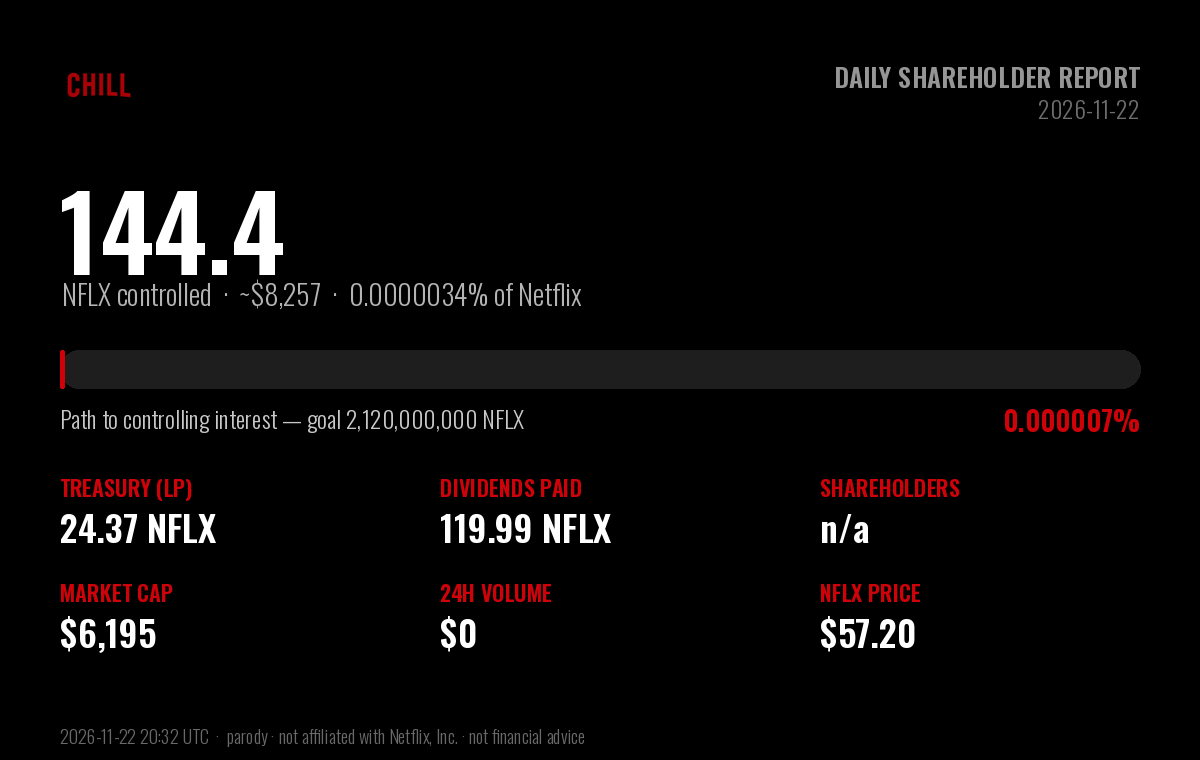
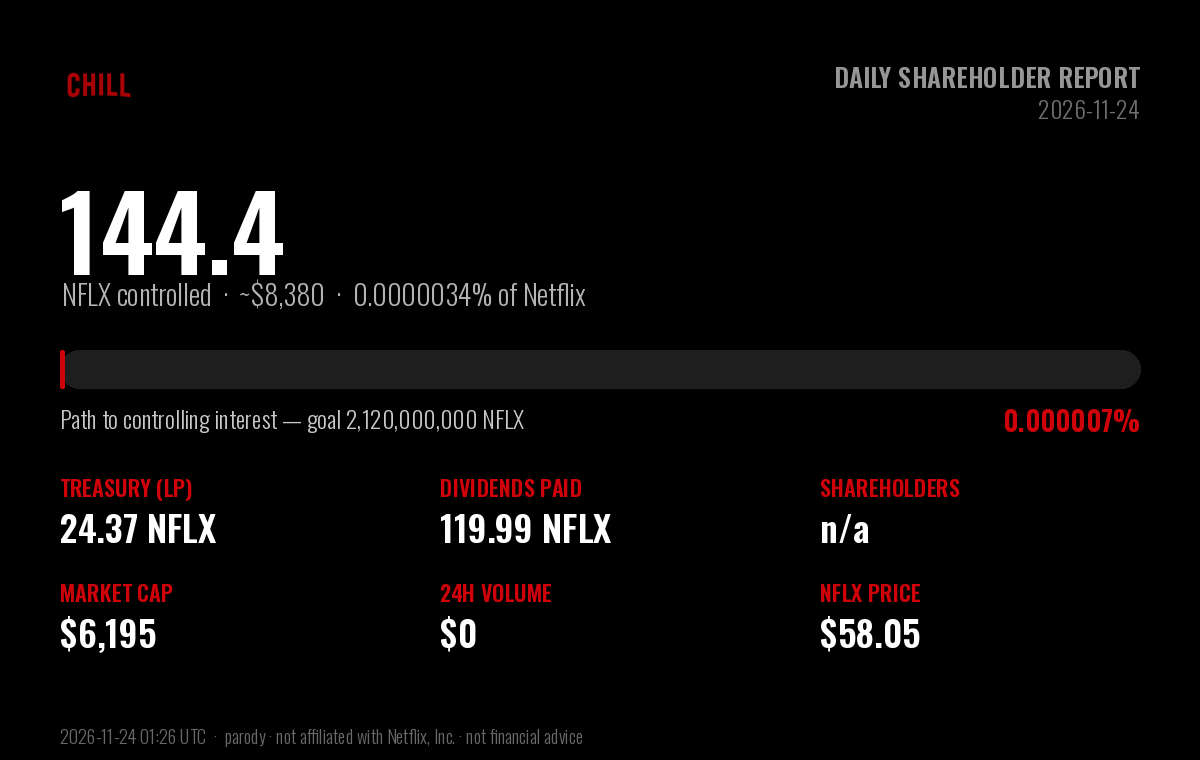
chore: daily $CHILL shareholder report (2026-11-24)

diff --git a/daily-holder-report/README.md b/daily-holder-report/README.md
@@ -1,6 +1,6 @@
 # $CHILL — Daily Shareholder Report
 
-### Netflix and Chill · Report to Shareholders · 2026-11-22
+### Netflix and Chill · Report to Shareholders · 2026-11-24
 
 > **Corporate objective:** acquire a controlling interest in Netflix (NFLX).
 > Netflix has **4,220,000,000** shares outstanding; a majority
@@ -13,7 +13,7 @@
 
 | Metric | Value |
 |---|---|
-| **NFLX under $CHILL control** | **144.36 NFLX** (~$8,257) |
+| **NFLX under $CHILL control** | **144.36 NFLX** (~$8,380) |
 | Stake in Netflix | 0.000003421% of shares outstanding |
 | Progress to controlling interest | 0.0000068% of 2,120,000,000 |
 | Shares remaining to majority | 2,119,999,856 NFLX |
@@ -22,9 +22,9 @@
 
 | Holding | NFLX | USD |
 |---|---|---|
-| Treasury (protocol-owned liquidity) | 24.37 | $1,394 |
-| Dividends distributed to shareholders | 119.99 | $6,863 |
-| **Total NFLX controlled** | **144.36** | **$8,257** |
+| Treasury (protocol-owned liquidity) | 24.37 | $1,415 |
+| Dividends distributed to shareholders | 119.99 | $6,965 |
+| **Total NFLX controlled** | **144.36** | **$8,380** |
 
 ## Last 24 hours
 
@@ -45,10 +45,10 @@
 | Shares outstanding ($CHILL) | 1,000,000,000 |
 | Market capitalization | $6,195 |
 | $CHILL price | $0.00000619 |
-| NFLX price | $57.20 |
-| Lifetime volume | 11,998.58 NFLX (~$686,344) |
+| NFLX price | $58.05 |
+| Lifetime volume | 11,998.58 NFLX (~$696,514) |
 | Lifetime transactions | 8,653 (4,840 buys / 3,813 sells) |
-| Days since IPO (launch) | 126 |
+| Days since IPO (launch) | 127 |
 
 ## Per-share metrics
 
@@ -59,7 +59,7 @@
 
 ---
 
-*Report generated 2026-11-22 20:32 UTC · block 120,882,149 · data via the Sentry-Robinhood
+*Report generated 2026-11-24 01:26 UTC · block 121,858,061 · data via the Sentry-Robinhood
 subgraph and Robinhood Chain explorer.*
 
 **Disclaimer:** $CHILL is an independent, community-driven **parody** token. It is
